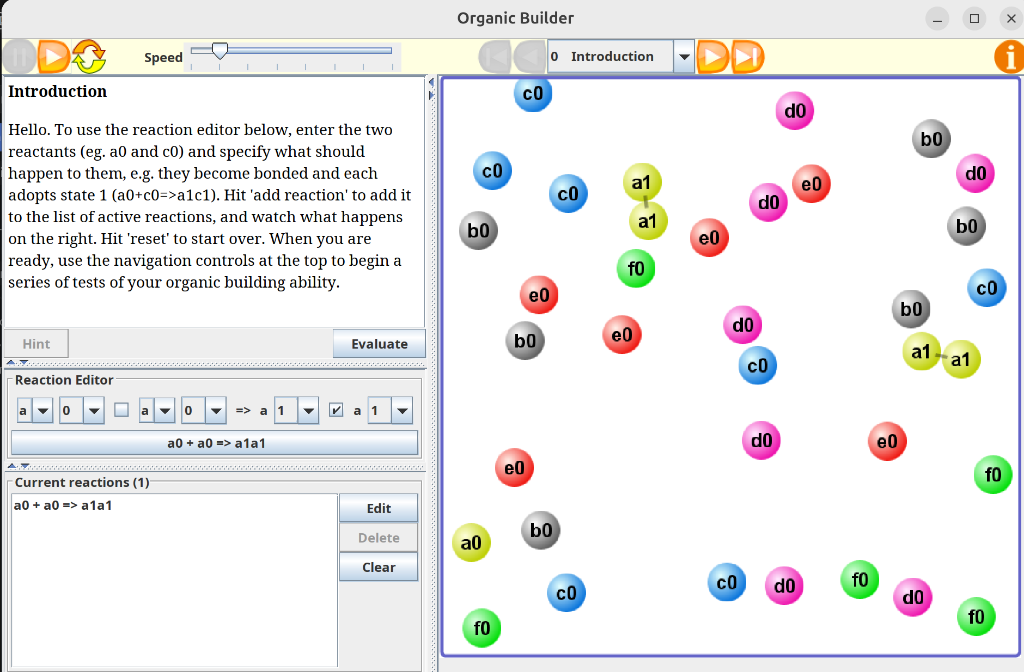
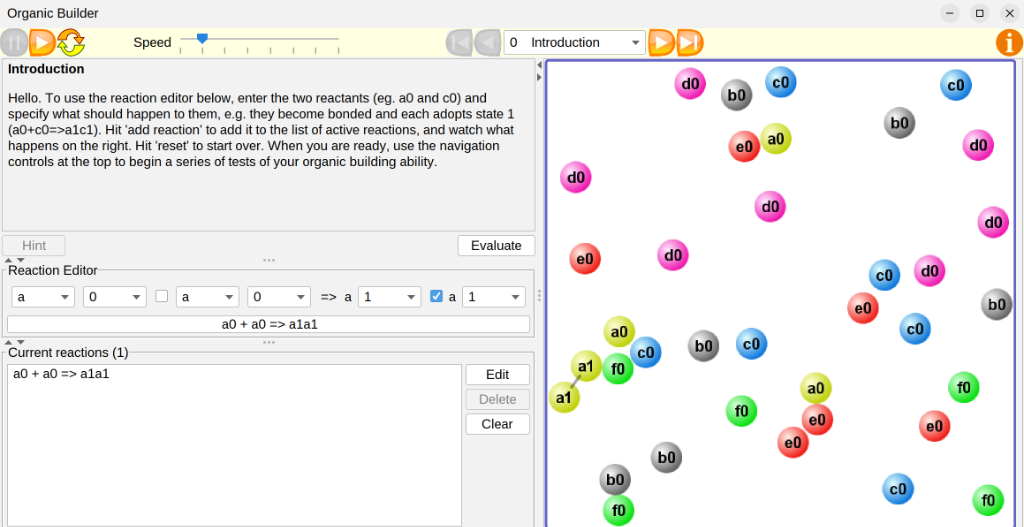
Switch UI to FlatLaf IntelliJ theme
- add com.formdev:flatlaf 3.7.2 dependency for a modern flat look
  replacing the dated Metal default theme
- install FlatIntelliJLaf and enable L&F window decorations
  (flat title bar) at startup in StandaloneSpringLauncher
- set Multi-Release in the fat jar manifest so the JVM loads
  FlatLaf's Java 9+ classes from META-INF/versions
- update README screenshot to the new design

Changed region(s): [[0.0, 0.0, 1.0, 1.0]]

diff --git a/src/main/java/uk/org/squirm3/springframework/StandaloneSpringLauncher.java b/src/main/java/uk/org/squirm3/springframework/StandaloneSpringLauncher.java
@@ -1,6 +1,10 @@
 package uk.org.squirm3.springframework;
 
+import javax.swing.JFrame;
+
 import org.springframework.context.support.ClassPathXmlApplicationContext;
+
+import com.formdev.flatlaf.FlatIntelliJLaf;
 
 import uk.org.squirm3.ui.UiScaling;
 
@@ -24,6 +28,8 @@ public class StandaloneSpringLauncher {
      */
     public static void main(final String... args) {
         UiScaling.adaptToScreenResolution();
+        FlatIntelliJLaf.setup();
+        JFrame.setDefaultLookAndFeelDecorated(true);
         new ClassPathXmlApplicationContext(DEFAULT_APPLICATION_CONTEXT);
     }
 

diff --git a/dev/prompts_log.md b/dev/prompts_log.md
@@ -21,3 +21,6 @@ the java app starts in fullscreen mode; when you start moving it, it shrinks to 
 ## 26-10-03 01:30
 commit everything, then change the whole design to a more modern design.
 
+## 26-10-03 01:37
+new screenshot in the readme.
+
